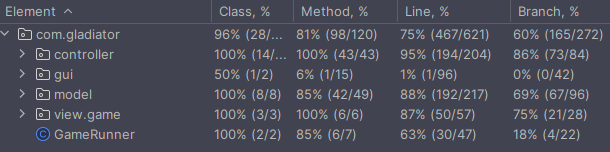
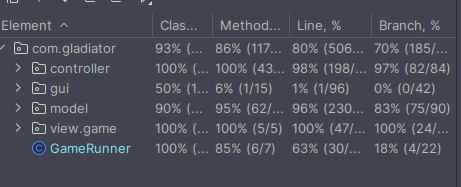
final commit

diff --git a/src/main/java/com/gladiator/GameRunner.java b/src/main/java/com/gladiator/GameRunner.java
@@ -14,15 +14,10 @@ import com.gladiator.view.menu.CreditsViewer;
 import com.gladiator.view.menu.GameOverViewer;
 import com.gladiator.view.menu.MenuViewer;
 
-/**
- * Main application orchestrator that manages the game lifecycle and state transitions.
- * Handles navigation between different screens (menu, game, credits).
- */
+
 public class GameRunner {
 
-    /**
-     * Application states for state machine pattern
-     */
+
     private enum AppState {
         MENU,
         GAME,
@@ -34,10 +29,7 @@ public class GameRunner {
     private static final int GUI_WIDTH = 400;
     private static final int GUI_HEIGHT = 300;
 
-    /**
-     * Main application entry point that runs the game loop.
-     * Manages GUI lifecycle and state transitions.
-     */
+
     public void run() throws Exception {
         GUI gui = null;
 
@@ -67,9 +59,7 @@ public class GameRunner {
         }
     }
 
-    /**
-     * Handles the menu state and returns the next state based on user selection.
-     */
+
     private AppState handleMenuState(GUI gui) throws Exception {
         MenuModel menuModel = new MenuModel();
         MenuViewer menuViewer = new MenuViewer(menuModel);
@@ -86,14 +76,10 @@ public class GameRunner {
         };
     }
 
-    /**
-     * Stores the win/loss state for the game over screen
-     */
+
     private boolean lastGameWon = false;
     
-    /**
-     * Handles the game state and transitions to game over screen when game ends.
-     */
+
     private AppState handleGameState(GUI gui) throws Exception {
         Arena arena = new ArenaBuilder().createArena();
         GameController gameController = new GameController(arena);
@@ -113,9 +99,7 @@ public class GameRunner {
         return AppState.MENU;
     }
     
-    /**
-     * Handles the game over state and returns the next state based on user selection.
-     */
+
     private AppState handleGameOverState(GUI gui) throws Exception {
         GameOverModel gameOverModel = new GameOverModel(lastGameWon);
         GameOverViewer gameOverViewer = new GameOverViewer(gameOverModel);
@@ -131,9 +115,7 @@ public class GameRunner {
         };
     }
 
-    /**
-     * Handles the credits state and returns to menu after viewing.
-     */
+
     private AppState handleCreditsState(GUI gui) throws Exception {
         CreditsViewer creditsViewer = new CreditsViewer();
         CreditsController creditsController = new CreditsController(creditsViewer);

diff --git a/src/main/java/com/gladiator/model/WaveManager.java b/src/main/java/com/gladiator/model/WaveManager.java
@@ -58,13 +58,6 @@ public class WaveManager {
         }
     }
 
-    /**
-     * Finds a random spawn position outside the minimum distance from the gladiator.
-     * Tries up to 50 times to find a valid position.
-     * @param enemyWidth Width of the enemy to spawn
-     * @param enemyHeight Height of the enemy to spawn
-     * @return A valid spawn position, or null if no valid position found
-     */
     private Position findRandomSpawnPosition(int enemyWidth, int enemyHeight) {
         if (arena.getGladiator() == null) {
             // Fallback if gladiator is not available
@@ -127,11 +120,6 @@ public class WaveManager {
         }
     }
 
-    /**
-     * Checks if all enemies are dead and updates wave status accordingly.
-     * Should be called after enemies are updated to detect when a wave is complete.
-     * @return true if the game should be won (completed all waves)
-     */
     public boolean checkWaveCompletion() {
         if (waveInProgress && enemyPool.getAllActiveEnemies().isEmpty()) {
             waveInProgress = false;

diff --git a/src/main/java/com/gladiator/model/ArenaBuilder.java b/src/main/java/com/gladiator/model/ArenaBuilder.java
@@ -64,18 +64,10 @@ public class ArenaBuilder {
         obstacles.add(new Tree(67, 67));
         obstacles.add(new SmallRock(340, 256));
         obstacles.add(new SmallRock(37, 238));
-        // Create 4 invisible walls around the entire arena
 
-        // Top border: 1 unit thick, runs across the entire top
         obstacles.add(new InvisibleWall(0, -1, ARENA_WIDTH, 1));
-
-        // Bottom border: 1 unit thick, runs across the entire bottom
         obstacles.add(new InvisibleWall(0, ARENA_HEIGHT, ARENA_WIDTH, 1));
-
-        // Left border: 1 unit thick, runs along the entire left side
         obstacles.add(new InvisibleWall(-1, 0, 1, ARENA_HEIGHT));
-
-        // Right border: 1 unit thick, runs along the entire right side
         obstacles.add(new InvisibleWall(ARENA_WIDTH, 0, 1, ARENA_HEIGHT));
 
         return obstacles;

diff --git a/src/main/java/com/gladiator/model/attack/AttackStrategy.java b/src/main/java/com/gladiator/model/attack/AttackStrategy.java
@@ -4,15 +4,8 @@ import com.gladiator.model.entity.MovingEntity;
 
 public interface AttackStrategy {
     void attack(MovingEntity attacker);
-    
-    /**
-     * Checks if the given entity is currently in an attack animation state.
-     * This is used by viewers to determine which sprite to display.
-     * 
-     * @param attacker The entity to check
-     * @return true if the entity recently attacked and should show attack animation
-     */
+
     default boolean isAttacking(MovingEntity attacker) {
-        return false; // Default implementation - override in subclasses
+        return false;
     }
 }

diff --git a/src/main/java/com/gladiator/model/attack/projectile/Projectile.java b/src/main/java/com/gladiator/model/attack/projectile/Projectile.java
@@ -83,10 +83,6 @@ public class Projectile implements Entity {
         return target;
     }
 
-    /**
-     * Calculates the distance traveled from the starting position to the current position.
-     * @return the distance traveled
-     */
     public double getDistanceTraveled() {
         int dx = position.getX() - startPosition.getX();
         int dy = position.getY() - startPosition.getY();

diff --git a/docs/README.md b/docs/README.md
@@ -40,8 +40,8 @@ overcome the arena's challenges and survive to tell his tale, or will this be hi
 ### MVC
 #### Problem in context
 Separate the data, interface and control of the game to have a more code reusability and to make the code more organized
-and easy to implement. Without this pattern, the Single Principle Resposability could be broken, as a part of any of the 
-MVC parts coulb be implemented on another.
+and easy to implement. Without this pattern, the Single Principle Responsibility could be broken, as a part of any of the 
+MVC parts could be implemented on another.
 
 #### The Pattern
 The MVC pattern is a way to separate all the code in three elements, Model, View and Control. The Model does not have 
@@ -49,13 +49,13 @@ dependences, the View depends on the Model, and the Controller depends on both t
 
 #### Implementation
 The main source directory of the project has three directories that represent one of the MVC elements, they are:
-[Model](/src/main/java/com.gladiator/model)
-[View](/src/main/java/com.gladiator/view)
-[Controller](/src/main/java/com.gladiator/controller)
+[Model](/src/main/java/com/gladiator/model)
+[View](/src/main/java/com/gladiator/view)
+[Controller](/src/main/java/com/gladiator/controller)
 ![](https://i.imgur.com/7k56rmg.png)
 
 #### Consequences
-Front-end and back-end can be done simultaneously, and relacted actions are grouped making the code more organized.
+Front-end and back-end can be done simultaneously, and related actions are grouped making the code more organized.
 The program is easy to modify and to test because the three elements are isolated from each other.
 
 ### Strategy Pattern
@@ -77,7 +77,7 @@ The game needed a flexible way to create different types of arenas with specific
 arena creation would make it difficult to create different arena variations or extend the game with new arena types.
 ### The Pattern
 The factory pattern is a solution for those problems. With a single instance of the factory class, it become possible
-to create the objects we desire with predifined parameters without needing to type it repeatdly. Also, if we didn't 
+to create the objects we desire with predefined parameters without needing to type it repeatedly. Also, if we didn't 
 want to change the code (obeying the open-closed solid principle) we could just create another method for the class 
 applying this design without needing to change the code.
 
@@ -89,14 +89,42 @@ methods act as factory methods that can be overridden by subclasses to create di
 ### Consequences
 Flexible Creation, Encapsulation and Extensibility: Subclasses can override factory methods to create different arena 
 configurations while centralizing creation logic and enabling easy creation of new arena types.
+### Known Code Smells
+
+#### 1. Long Parameter Lists
+**Locations**:
+- `Gladiator.getInstance(int x, int y, int w, int h, int hp, int speed)` - 6 parameters
+- `Enemy constructor (int x, int y, int w, int h, int hp, int speed, MovementStrategy movement, AttackStrategy attack)` - 8 parameters
+- `BowAttack constructor  (int damage, int speed, double maxDistance, List<Enemy> targets, SingleArrowPool arrowPool, int cooldownTicks)` - 6 parameters
+
+#### 2. Code Duplication - Distance Calculation
+**Locations**: Distance calculation code is duplicated in multiple places:
+- [GladiatorUpdater](/src/main/java/com/gladiator/controller/entity/GladiatorUpdater.java)
+- [SwordAttack](/src/main/java/com/gladiator/model/attack/SwordAttack.java) 
+- [BowAttack](/src/main/java/com/gladiator/model/attack/BowAttack.java) 
+- [WaveManager](/src/main/java/com/gladiator/model/WaveManager.java)
+- [ProjectileUpdater](/src/main/java/com/gladiator/controller/projectile/ProjectileUpdater.java) 
+
+
+#### 3. Class With Too Many Responsibilities
+**Location**: [Arena](/src/main/java/com/gladiator/model/Arena.java)
+
+**Issue**: The `Arena` class handles multiple responsibilities:
+- Entity storage (gladiator, enemies, obstacles, arrows)
+- Collision detection (`isEnemy`, `isObstacle`, `isArrow`, `isGladiator`, `isEmpty`)
+- State queries
+
+**Impact**:
+- Hard to maintain
+- Violates Single Responsibility Principle
+- Difficult to test individual concerns
 ## Testing
 
 ### Screenshot of coverage report
 ![](images/others/TestCoverage.png)
 
-### Link to mutation testing report
-[Mutation tests](../build/reports/pitest/index.html)
-
+### Mutation testing report
+![](images/others/pitest.png)
 ## Self-Evaluation
     - Filipe Cruz: 33%
     - Pedro Postiga: 33%
